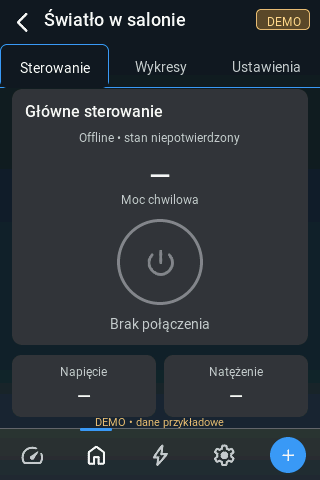
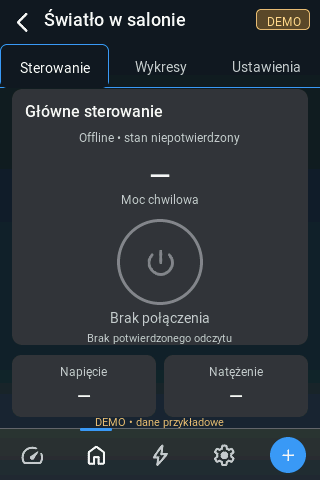
Keep confirmed state during polling and defer one user SET safely (#12)

Changed region(s): [[0.2812, 0.6562, 0.7188, 0.7188]]

diff --git a/tests/ui/test_ui.c b/tests/ui/test_ui.c
@@ -25,6 +25,7 @@ void test_lan_inspected(dsr_result_t result,const char *components);
 static dsr_job_t submitted;
 static dsr_event_t response;
 static bool in_flight, result_ready;
+static dsr_result_t next_submit_result;
 static dsr_settings_t stored = {.brightness = 70, .idle_seconds = 60};
 static dsr_wifi_info_t wifi;
 static unsigned char canvas[320 * 480 * 3];
@@ -58,7 +59,7 @@ bool dsr_wifi_connected(void) {return wifi.connected;}
 void dsr_wifi_get_info(dsr_wifi_info_t *out) {*out=wifi;}
 void dsr_wifi_cancel_connect(void) {CHECK(submitted.kind==DSR_JOB_WIFI_CONNECT);}
 dsr_result_t dsr_worker_submit(const dsr_job_t *job)
-{CHECK(!in_flight);requests++;submitted=*job; in_flight=true; return DSR_OK;}
+{if(next_submit_result!=DSR_OK){dsr_result_t result=next_submit_result;next_submit_result=DSR_OK;return result;}CHECK(!in_flight);requests++;submitted=*job; in_flight=true; return DSR_OK;}
 bool dsr_worker_receive(dsr_event_t *out)
 {if(!result_ready)return false; *out=response; result_ready=false; in_flight=false; return true;}
 
@@ -115,6 +116,39 @@ static lv_obj_t *nth_type(lv_obj_t *root,const lv_obj_class_t *type,unsigned *sk
 }
 static void deliver(dsr_result_t result,dsr_wifi_status_t detail)
 {response.id=submitted.id;response.result=result;response.wifi_detail=detail;result_ready=true;tick();}
+static void polling_regression(void)
+{
+ dsr_network_home(NULL);lv_obj_update_layout(lv_screen_active());
+ lv_obj_t *name=find_label(lv_screen_active(),"Desk lamp");CHECK(name);
+ unsigned before=requests;
+ for(unsigned i=0;i<2;i++){
+  lv_tick_inc(5000);tick();CHECK(in_flight&&submitted.kind==DSR_JOB_PROBE);
+  CHECK(find_label(lv_screen_active(),"Desk lamp")==name);CHECK(find_label(lv_screen_active(),"Nieprzypisane • Włączone"));CHECK(!find_label(lv_screen_active(),"Odczyt stanu…"));
+  response.device.online=true;deliver(DSR_OK,DSR_WIFI_IDLE);CHECK(find_label(lv_screen_active(),"Desk lamp")==name);
+ }
+ CHECK(requests==before+2);screenshot("70-home-poll-stable");
+ lv_tick_inc(5000);tick();CHECK(submitted.kind==DSR_JOB_PROBE);before=requests;
+ tap(274,178);CHECK(submitted.kind==DSR_JOB_PROBE&&requests==before);CHECK(find_label(lv_screen_active(),"Nieprzypisane • Wysyłanie polecenia…"));screenshot("71-command-queued-behind-read");
+ tap(274,178);CHECK(requests==before); /* disabled duplicate, never lost/replayed */
+ deliver(DSR_OK,DSR_WIFI_IDLE);CHECK(in_flight&&submitted.kind==DSR_JOB_SET_OUTPUT&&!submitted.on);CHECK(requests==before+1);CHECK(!find_label(lv_screen_active(),"Nieprzypisane • Wyłączone"));
+ response.device.output=false;deliver(DSR_OK,DSR_WIFI_IDLE);CHECK(find_label(lv_screen_active(),"Nieprzypisane • Wyłączone"));
+ tap(274,178);CHECK(submitted.kind==DSR_JOB_SET_OUTPUT&&submitted.on);response.device.output=true;deliver(DSR_OK,DSR_WIFI_IDLE);
+ /* A failed read cancels the queued intent, rather than blindly sending SET. */
+ lv_tick_inc(5000);tick();before=requests;tap(274,178);response.device.online=false;deliver(DSR_AUTH_REQUIRED,DSR_WIFI_IDLE);CHECK(requests==before);CHECK(find_label(lv_screen_active(),"Błąd logowania"));
+ click("Desk lamp");click("Odśwież stan");response.device.online=true;deliver(DSR_OK,DSR_WIFI_IDLE);
+ lv_obj_t *label=find_label(lv_screen_active(),"230.4 V");CHECK(label);
+ lv_tick_inc(5000);tick();CHECK(submitted.kind==DSR_JOB_PROBE);CHECK(find_label(lv_screen_active(),"230.4 V")==label);CHECK(find_label(lv_screen_active(),"Włączone • Online"));
+ before=requests;click("Odśwież stan");CHECK(requests==before); /* joins read */
+ deliver(DSR_OK,DSR_WIFI_IDLE);CHECK(find_label(lv_screen_active(),"230.4 V")==label);screenshot("72-details-poll-freshness");
+ lv_tick_inc(1000);tick();CHECK(find_label(lv_screen_active(),"Odczyt potwierdzony 1 s temu"));CHECK(find_label(lv_screen_active(),"230.4 V")==label);
+ /* Busy dispatch is reported and never retried as a SET by automatic polling. */
+ lv_tick_inc(5000);tick();before=requests;tap(160,262);CHECK(submitted.kind==DSR_JOB_PROBE);next_submit_result=DSR_BUSY;deliver(DSR_OK,DSR_WIFI_IDLE);CHECK(!in_flight&&requests==before);
+ lv_tick_inc(5000);tick();CHECK(submitted.kind==DSR_JOB_PROBE);deliver(DSR_OK,DSR_WIFI_IDLE);click("Odśwież stan");deliver(DSR_OK,DSR_WIFI_IDLE);
+ /* Losing Wi-Fi while queued cancels intent even if the read later succeeds. */
+ lv_tick_inc(5000);tick();before=requests;tap(160,262);wifi.connected=false;tick();CHECK(find_label(lv_screen_active(),"Brak odpowiedzi"));deliver(DSR_OK,DSR_WIFI_IDLE);CHECK(requests==before&&!in_flight);
+ wifi.connected=true;tick();CHECK(submitted.kind==DSR_JOB_PROBE);click("Odśwież stan");response.device.online=true;deliver(DSR_OK,DSR_WIFI_IDLE);CHECK(!find_label(lv_screen_active(),"Brak odpowiedzi"));
+ dsr_network_home(NULL);
+}
 static void bounds(lv_obj_t *obj,int max_y)
 {lv_area_t a;lv_obj_get_coords(obj,&a);CHECK(a.x1>=0&&a.x2<320&&a.y1>=0&&a.y2<max_y);}
 static void keyboard_regression(void)
@@ -199,6 +233,7 @@ int main(int argc,char **argv)
         .generation=DSR_GEN2_PLUS,.online=true,.has_switch=true,.output=true,.has_power=true,.power_w=4.1};
     response.telemetry=(dsr_telemetry_t){.has_voltage=true,.has_current=true,.voltage_v=230.4,.current_a=0.018};
     deliver(DSR_OK,DSR_WIFI_IDLE);screenshot("11-configured-switch");
+    polling_regression();
     click("Desk lamp");CHECK(find_label(lv_screen_active(),"230.4 V"));CHECK(find_label(lv_screen_active(),"0.018 A"));screenshot("50-real-metrics-fixture");
     lv_obj_t *power=power_target(lv_screen_active());CHECK(power);lv_obj_send_event(power,LV_EVENT_CLICKED,NULL);CHECK(in_flight&&submitted.kind==DSR_JOB_SET_OUTPUT);
     response.device.online=false;deliver(DSR_AUTH_REQUIRED,DSR_WIFI_IDLE);CHECK(find_label(lv_screen_active(),"Błąd logowania"));CHECK(!find_label(lv_screen_active(),"230.4 V"));screenshot("51-command-auth-error");

diff --git a/components/dsr_ui/dsr_ui_network.c b/components/dsr_ui/dsr_ui_network.c
@@ -12,6 +12,10 @@ static dsr_connection_t saved, pending;
 static bool configured, busy, blocked, wifi_previous;
 static dsr_result_t last_result = DSR_OK;
 static bool command_error;
+/* One user intent may wait behind a read. Never replay SET after a failure. */
+static bool queued_output,queued_on,sample_valid;
+static dsr_device_t queued_device;
+static uint32_t sample_ms;
 static dsr_job_kind_t operation;
 static uint32_t serial, outstanding, last_poll;
 static bool storage_error;
@@ -68,8 +72,9 @@ static void render(void)
         d->channel=saved.device.channel;
         }
         d->online = mobile_model.wifi && saved.device.online;
-        d->output = saved.device.output; d->busy = busy;
-        d->command_pending=busy&&operation==DSR_JOB_SET_OUTPUT;
+        d->output = saved.device.output; d->busy = queued_output||(busy&&operation!=DSR_JOB_PROBE);
+        d->command_pending=queued_output||(busy&&operation==DSR_JOB_SET_OUTPUT);
+        d->has_sample_time=sample_valid;d->sample_ms=sample_ms;
         d->error=last_result;
         d->can_switch = saved.device.has_switch && !blocked;
         d->has_power = saved.device.has_power; d->power_w = saved.device.power_w;
@@ -113,7 +118,9 @@ void dsr_network_home(lv_event_t *event)
 
 static void mobile_output(unsigned index, bool on)
 {
-    if (index>=mobile_model.device_count||strcmp(mobile_model.devices[index].host,saved.device.host)||mobile_model.devices[index].channel!=saved.device.channel||busy||blocked||!saved.device.online||!dsr_wifi_connected()) return;
+    if (index>=mobile_model.device_count||strcmp(mobile_model.devices[index].host,saved.device.host)||mobile_model.devices[index].channel!=saved.device.channel||queued_output||(busy&&operation!=DSR_JOB_PROBE)||blocked||!saved.device.online||!dsr_wifi_connected()) return;
+    last_result=DSR_OK;command_error=false;
+    if(busy){queued_output=true;queued_on=on;queued_device=saved.device;render();return;}
     dsr_result_t result=submit(DSR_JOB_SET_OUTPUT,on);
     if(result!=DSR_OK){last_result=result;command_error=true;render();}
 }
@@ -122,9 +129,10 @@ static void mobile_edit_device(unsigned index)
 {if(index<mobile_model.device_count&&mobile_model.devices[index].id)dsr_ui_edit_device(mobile_model.devices[index].id);}
 static void mobile_refresh(void)
 {
- if(busy||!configured)return;
+ if((busy&&operation!=DSR_JOB_PROBE)||queued_output||!configured)return;
  command_error=false;blocked=false;
  if(!dsr_wifi_connected()){last_result=DSR_OFFLINE;render();return;}
+ if(busy){last_result=DSR_OK;render();return;} /* Join the existing read. */
  dsr_result_t result=submit(DSR_JOB_PROBE,false);if(result!=DSR_OK){last_result=result;render();}
 }
 
@@ -257,6 +265,7 @@ static void poll(lv_timer_t *timer)
                 char old_host[16]={0};if(configured&&!strcmp(saved.device.device_id,event.device.device_id))snprintf(old_host,sizeof(old_host),"%s",saved.device.host);
                 saved = pending; saved.device = event.device;saved.telemetry=event.telemetry; configured = true; blocked = false;command_error=false;
                 dsr_ui_workspace_migrate_bound(&saved,pending_room,old_host);
+                sample_valid=event.device.online;sample_ms=now;
                 last_result = DSR_OK; if(!external_bind)dsr_network_home(NULL);
             }
             if(lan_binding){if(event.result!=DSR_OK)dsr_ui_lan_bind_result(event.result);lan_binding=false;}
@@ -265,17 +274,32 @@ static void poll(lv_timer_t *timer)
             if(external_bind){dsr_workspace_bind_result(event.result);external_bind=false;}
         } else {
             saved.device = event.device;saved.telemetry=event.telemetry;
+            if(event.result==DSR_OK&&event.device.online){sample_valid=true;sample_ms=now;}
             if(operation==DSR_JOB_SET_OUTPUT){last_result=event.result;command_error=event.result!=DSR_OK;}
             else if(!command_error)last_result=event.result;
             blocked = event.result == DSR_AUTH_REQUIRED || event.result == DSR_IDENTITY_MISMATCH || event.result == DSR_RATE_LIMITED;
         }
         if (message && event.result != DSR_OK && operation != DSR_JOB_WIFI_SCAN && operation != DSR_JOB_WIFI_CONNECT)
             dsr_sc_label_set_text(message, result_text(event.result));
+        if(queued_output){
+            bool on=queued_on;
+            dsr_result_t result=event.result;
+            if(result==DSR_OK&&!dsr_wifi_connected())result=DSR_OFFLINE;
+            if(result==DSR_OK&&(!saved.device.online||!saved.device.has_switch))result=DSR_BAD_RESPONSE;
+            if(result==DSR_OK&&(strcmp(saved.device.device_id,queued_device.device_id)||strcmp(saved.device.host,queued_device.host)||saved.device.generation!=queued_device.generation||saved.device.channel!=queued_device.channel))result=DSR_IDENTITY_MISMATCH;
+            queued_output=false;memset(&queued_device,0,sizeof(queued_device));
+            if(result==DSR_OK)result=submit(DSR_JOB_SET_OUTPUT,on);
+            if(result!=DSR_OK){last_result=result;command_error=true;
+                if(result==DSR_AUTH_REQUIRED||result==DSR_IDENTITY_MISMATCH||result==DSR_RATE_LIMITED)blocked=true;
+                if(result==DSR_IDENTITY_MISMATCH)saved.device.online=false;
+            }
+        }
         render();
     }
     bool wifi = dsr_wifi_connected();
     if (wifi != wifi_previous) {
         wifi_previous = wifi; saved.device.online = false;
+        if(!wifi&&queued_output){queued_output=false;memset(&queued_device,0,sizeof(queued_device));last_result=DSR_OFFLINE;command_error=true;}
         if (wifi) last_poll = now - 5000;
         render();
     }

diff --git a/components/dsr_ui/dsr_ui_mobile.c b/components/dsr_ui/dsr_ui_mobile.c
@@ -20,13 +20,24 @@ static dsr_mobile_page_t previous_page;
 static unsigned previous_selected;
 static bool active;
 static lv_obj_t *content;
+static lv_obj_t *sample_age;
+static lv_timer_t *age_timer;
 static void render(void);
+static void update_sample_age(void)
+{
+ if(!active||!sample_age||selected>=model.device_count)return;
+ const dsr_mobile_device_t *d=&model.devices[selected];char text[72];
+ if(d->has_sample_time)snprintf(text,sizeof(text),dsr_sc_tr("Odczyt potwierdzony %u s temu"),(unsigned)((lv_tick_get()-d->sample_ms)/1000));
+ else snprintf(text,sizeof(text),"%s",dsr_sc_tr("Brak potwierdzonego odczytu"));
+ lv_label_set_text(sample_age,text);
+}
+static void age_tick(lv_timer_t *timer){(void)timer;update_sample_age();}
 
-void dsr_mobile_bind(const dsr_mobile_actions_t *a){if(a)actions=*a;else memset(&actions,0,sizeof(actions));}
+void dsr_mobile_bind(const dsr_mobile_actions_t *a){if(a)actions=*a;else memset(&actions,0,sizeof(actions));if(!age_timer)age_timer=lv_timer_create(age_tick,1000,NULL);}
 bool dsr_mobile_active(void){return active;}
 dsr_mobile_page_t dsr_mobile_page(void){return page;}
 static void end_preview(void){if(cover_preview){model=preview_saved;memset(&preview_saved,0,sizeof(preview_saved));cover_preview=false;}}
-void dsr_mobile_hide(void){end_preview();active=false;content=NULL;}
+void dsr_mobile_hide(void){end_preview();active=false;content=sample_age=NULL;}
 static void center(lv_obj_t *o){lv_obj_set_style_text_align(o,LV_TEXT_ALIGN_CENTER,0);}
 static void truncate(lv_obj_t *o,int height){lv_obj_set_height(o,height);lv_label_set_long_mode(o,LV_LABEL_LONG_MODE_DOTS);}
 static void edge(lv_obj_t *o,uint32_t c,int width){lv_obj_set_style_border_color(o,dsr_sc_color(c),0);lv_obj_set_style_border_width(o,width,0);}
@@ -292,7 +303,8 @@ static void details(lv_obj_t *root)
     center(dsr_sc_text(panel,d->has_power?"Moc chwilowa":"Pomiar mocy niedostępny",8,103,280,&dsr_roboto_12,DSR_SC_MUTED));
     power_button(panel,selected,105,130,86);
     if(actions.refresh){lv_obj_t *button=dsr_sc_button(panel,202,148,82,48,DSR_SC_PANEL,10,refresh,NULL);lv_obj_t *label=dsr_sc_text(button,"Odśwież stan",4,8,74,&dsr_roboto_12,DSR_SC_TEXT);center(label);if(d->busy)lv_obj_add_state(button,LV_STATE_DISABLED);}
-    center(dsr_sc_text(panel,d->error!=DSR_OK?"Odśwież, aby potwierdzić stan":!d->online?"Brak połączenia":d->busy?"Oczekiwanie…":d->output?"Wyłącz":"Włącz",8,226,280,&dsr_roboto_14,d->online?DSR_SC_BLUE:DSR_SC_MUTED));
+    center(dsr_sc_text(panel,d->error!=DSR_OK?"Odśwież, aby potwierdzić stan":!d->online?"Brak połączenia":d->busy?"Oczekiwanie…":d->output?"Wyłącz":"Włącz",8,220,280,&dsr_roboto_14,d->online?DSR_SC_BLUE:DSR_SC_MUTED));
+    sample_age=dsr_sc_text(panel,"",8,242,280,&dsr_roboto_11,DSR_SC_MUTED);center(sample_age);update_sample_age();
     char voltage[32],current[32];
     if(d->online&&d->error==DSR_OK&&d->has_voltage)snprintf(voltage,sizeof(voltage),"%.1f V",d->voltage_v);else snprintf(voltage,sizeof(voltage),"—");
     if(d->online&&d->error==DSR_OK&&d->has_current)snprintf(current,sizeof(current),"%.3f A",d->current_a);else snprintf(current,sizeof(current),"—");
@@ -301,7 +313,7 @@ static void details(lv_obj_t *root)
 static void render(void)
 {
     int scroll=content?lv_obj_get_scroll_y(content):0;
-    lv_obj_t *root=lv_screen_active();content=NULL;lv_obj_clean(root);lv_obj_remove_style_all(root);
+    lv_obj_t *root=lv_screen_active();content=sample_age=NULL;lv_obj_clean(root);lv_obj_remove_style_all(root);
     lv_obj_set_style_bg_color(root,dsr_sc_color(DSR_SC_BG),0);lv_obj_set_style_bg_opa(root,LV_OPA_COVER,0);
     lv_obj_set_style_bg_grad_color(root,lv_color_hex(0x1a2733),0);lv_obj_set_style_bg_grad_dir(root,LV_GRAD_DIR_VER,0);
     lv_obj_remove_flag(root,LV_OBJ_FLAG_SCROLLABLE);
@@ -354,7 +366,9 @@ void dsr_mobile_update(const dsr_mobile_model_t *m)
         preview_saved.demo=false;
 #endif
         return;}
-    if(!memcmp(&model,m,sizeof(model)))return;
+    /* Freshness changes update one label, not the entire screen or scroll state. */
+    for(unsigned i=0;i<DSR_UI_MAX_DEVICES;i++){model.devices[i].has_sample_time=m->devices[i].has_sample_time;model.devices[i].sample_ms=m->devices[i].sample_ms;}
+    if(!memcmp(&model,m,sizeof(model))){update_sample_age();return;}
     if(page==DSR_MOBILE_HOME&&model.dashboard_id!=m->dashboard_id)content=NULL;
     if(page==DSR_MOBILE_DETAILS&&selected<model.device_count&&model.devices[selected].id){
         uint32_t id=model.devices[selected].id;unsigned next=0;while(next<m->device_count&&m->devices[next].id!=id)next++;

diff --git a/components/dsr_ui/dsr_ui_style.c b/components/dsr_ui/dsr_ui_style.c
@@ -36,6 +36,8 @@ const char *dsr_sc_tr(const char *text)
  {"Zezwól na OTA • 2 minuty","Allow OTA • 2 minutes","OTA erlauben • 2 Minuten"},
  {"Zmiany zostaną zastosowane po zapisaniu","Changes apply after saving","Änderungen nach dem Speichern"},
  {"Bateria","Battery","Batterie"},{"Pozycja","Position","Position"},
+ {"Odczyt potwierdzony %u s temu","Reading confirmed %u s ago","Messung vor %u s bestätigt"},
+ {"Brak potwierdzonego odczytu","No confirmed reading","Keine bestätigte Messung"},
  {"Otwórz","Open","Öffnen"},{"Zamknij","Close","Schließen"},
  {"Otwieranie","Opening","Wird geöffnet"},{"Zamykanie","Closing","Wird geschlossen"},
  {"Zatrzymano","Stopped","Gestoppt"},{"Kalibracja","Calibration","Kalibrierung"},

diff --git a/components/dsr_ui/include/dsr_ui_mobile.h b/components/dsr_ui/include/dsr_ui_mobile.h
@@ -25,6 +25,8 @@ typedef struct {
     bool has_frequency,can_stop_cover;
     double frequency_hz;
     dsr_mobile_cover_state_t cover_state;
+    bool has_sample_time;
+    uint32_t sample_ms;
     uint8_t fields;
 } dsr_mobile_device_t;
 typedef struct {char name[48];uint8_t icon;char photo[33];uint32_t id;} dsr_mobile_room_t;

diff --git a/docs/STABLE_POLLING.md b/docs/STABLE_POLLING.md
@@ -1,0 +1,59 @@
+# Stabilny stan podczas odczytu — 0.6.3-polling-dev (Issue #12)
+
+Oddzielny draft PR oparty na graficznym PR #16. Poprawia potwierdzony przeskok
+stanu HOME co pięć sekund i obsługę dotknięcia podczas odczytu. Nie zmienia
+transportu HTTP, autoryzacji, sterowników ani formatu NVS.
+
+## Zachowanie
+
+- Automatyczny PROBE zachowuje ostatni potwierdzony stan i pomiary. Nie zastępuje
+  Włączone/Wyłączone etykietą Odczyt stanu i nie wygasza przycisku ON/OFF.
+- Identyczna odpowiedź GET nie przebudowuje ekranu. Na szczegółach odświeża się
+  jedynie mała etykieta czasu od potwierdzonego odczytu; timer nie tworzy obiektów.
+- Dotknięcie ON/OFF podczas PROBE zapisuje jedno jawne żądanie docelowego ON lub
+  OFF. Pokazuje Wysyłanie polecenia i blokuje kolejne dotknięcia. Po potwierdzonym
+  odczycie worker otrzymuje SET przed następnymi zadaniami konfiguracyjnymi.
+- Żądanie dotyczy identyfikatora, generacji, hosta i kanału wybranych w momencie
+  dotknięcia. Błąd odczytu, brak połączenia, zmiana tożsamości albo odrzucenie
+  dispatch kasuje oczekujące żądanie i pokazuje błąd. Nie ma ponowienia SET.
+- Stan zmienia się dopiero po SET + obowiązkowym odczycie zwrotnym. Oczekujące
+  żądanie nie jest optymistycznym potwierdzeniem ruchu/przełączenia.
+- Odśwież stan podczas trwającego GET korzysta z tego odczytu; nie tworzy kolejnej
+  komendy. Nadal pozostaje wyłącznie odczytem.
+
+Dotychczasowe Nieprzypisane jest nazwą braku pomieszczenia. Poprawka nie zmienia
+przypisania — usuwa zastępowanie stanu urządzenia przez etykietę oczekiwania.
+
+## Regresja automatyczna
+
+`python3 tools/test_ui.py --ubsan-only` testuje prawdziwy kod LVGL i adaptera UI:
+dwa kolejne cykle 5/10 s ze stałym stanem, niezmienionymi obiektami karty,
+dotknięcie podczas PROBE, dokładnie jeden odroczony SET i wymagany readback,
+duplikat dotknięcia, błąd logowania, odrzucenie dispatch, utratę Wi-Fi w kolejce,
+brak automatycznego ponowienia SET, ręczne odświeżanie i wiek próbki.
+
+Rendery `70-home-poll-stable.png`, `71-command-queued-behind-read.png` oraz
+`72-details-poll-freshness.png` są rzeczywistym framebufferem LVGL 320×480.
+Mają oznaczenie TEST / DEMO, gdyż test wstrzykuje zdarzenia transportu.
+
+## Test fizyczny ES3C35P + Shelly 1PM Mini Gen3
+
+1. Zapisz wersję i SHA, wgraj aplikacyjny BIN przez dotychczasowe OTA. Sprawdź,
+   że Wi-Fi, zapisany Shelly i dashboard pozostały po aktualizacji.
+2. Nagraj HOME przez co najmniej 12 s bez dotykania. Włączone/Wyłączone i kontrast
+   przycisku mają pozostać stabilne między kolejnymi odczytami. Nieprzypisane
+   może pozostać, jeśli wcześniej nie przypisano urządzenia do pomieszczenia.
+3. Wejdź w szczegóły: obserwuj wiek odczytu. Co ok. 5 s powinien wracać do zera,
+   bez znikania W/V/A i bez zmiany widoku. Porównaj stan z aplikacją Shelly.
+4. Włącz i wyłącz rzeczywiste, znane obciążenie; następnie naciśnij ON/OFF kilka
+   razy w kolejnych próbach w pobliżu momentu odczytu. Każde zaakceptowane
+   pojedyncze dotknięcie ma dać jeden SET/readback. Nie dotykaj wielokrotnie
+   wyłączonego przycisku oczekującej komendy.
+5. Odłącz Wi-Fi lub Shelly przy oczekującym żądaniu. Błąd ma być jawny; po powrocie
+   połączenia pilot ma tylko odczytywać stan. Nie może sam ponowić SET.
+6. Zachowaj oczyszczone logi wyniku SET/readback i GET oraz film bez haseł,
+   prywatnych SSID/IP. Potwierdź dotyk, jasność, sen/wybudzanie i restart.
+
+Kompilacja/testy hosta nie zastępują tego testu. Dotychczasowe potwierdzenie
+fizycznego ON/OFF od użytkownika pozostaje ważne dla wcześniejszej wersji.
+Bez scalenia do main/stable i bez domniemanej akceptacji graficznej.

diff --git a/PROJECT_STATUS.md b/PROJECT_STATUS.md
@@ -1,5 +1,29 @@
 # Project status
 
+## 0.6.3 — stable background reads and one deferred user command (Issue #12)
+
+Branch `work/issue-12-stable-polling`, stacked on cover PR #16. A periodic PROBE
+retains confirmed state/metrics and enabled ON/OFF. Unchanged samples update
+only freshness text, preserving card objects and scroll. An accepted tap during
+a read queues one explicit target ON/OFF, disables duplicates, verifies the same
+device/host/generation/channel after the read and dispatches before config jobs.
+Read/auth/Wi-Fi/dispatch failures cancel the intent; SET is never auto-replayed.
+The confirmed output changes only after mandatory SET/readback. Manual Refresh
+can join an existing read. Physical drivers, relay transport and NVS are retained.
+
+Local UBSan: 1101 integrated LVGL checks/38 frames and 2615 review checks/23
+frames pass, including two stable 5/10 s polls, pointer tap during a read, one
+deferred SET, double tap, auth failure, Wi-Fi loss, dispatch rejection and sample
+age. Repeated UI and cover preview cycles retain the same host heap. Tests and
+renders inject clearly marked TEST/DEMO transport events, not physical readings.
+[Exact regression and physical test](docs/STABLE_POLLING.md). Target/browser/ASan
+CI runs on this draft; physical regression remains pending. No merge/stable.
+
+PR #16 (`41137b6`, cover view 0.6.2) completed all five CI jobs successfully:
+[run 38800101997](https://github.com/voltex-at/DIY-Shelly-Remote/actions/runs/38800101997).
+This includes the actual ES3C35P firmware and host ASan/browser checks. It does
+not establish a physical Cover transport test or visual acceptance.
+
 ## 0.6.2 — Shelly-inspired vertical cover details (Issue #15)
 
 Branch `work/issue-15-cover-details`, stacked on PR #14. The existing cover view
